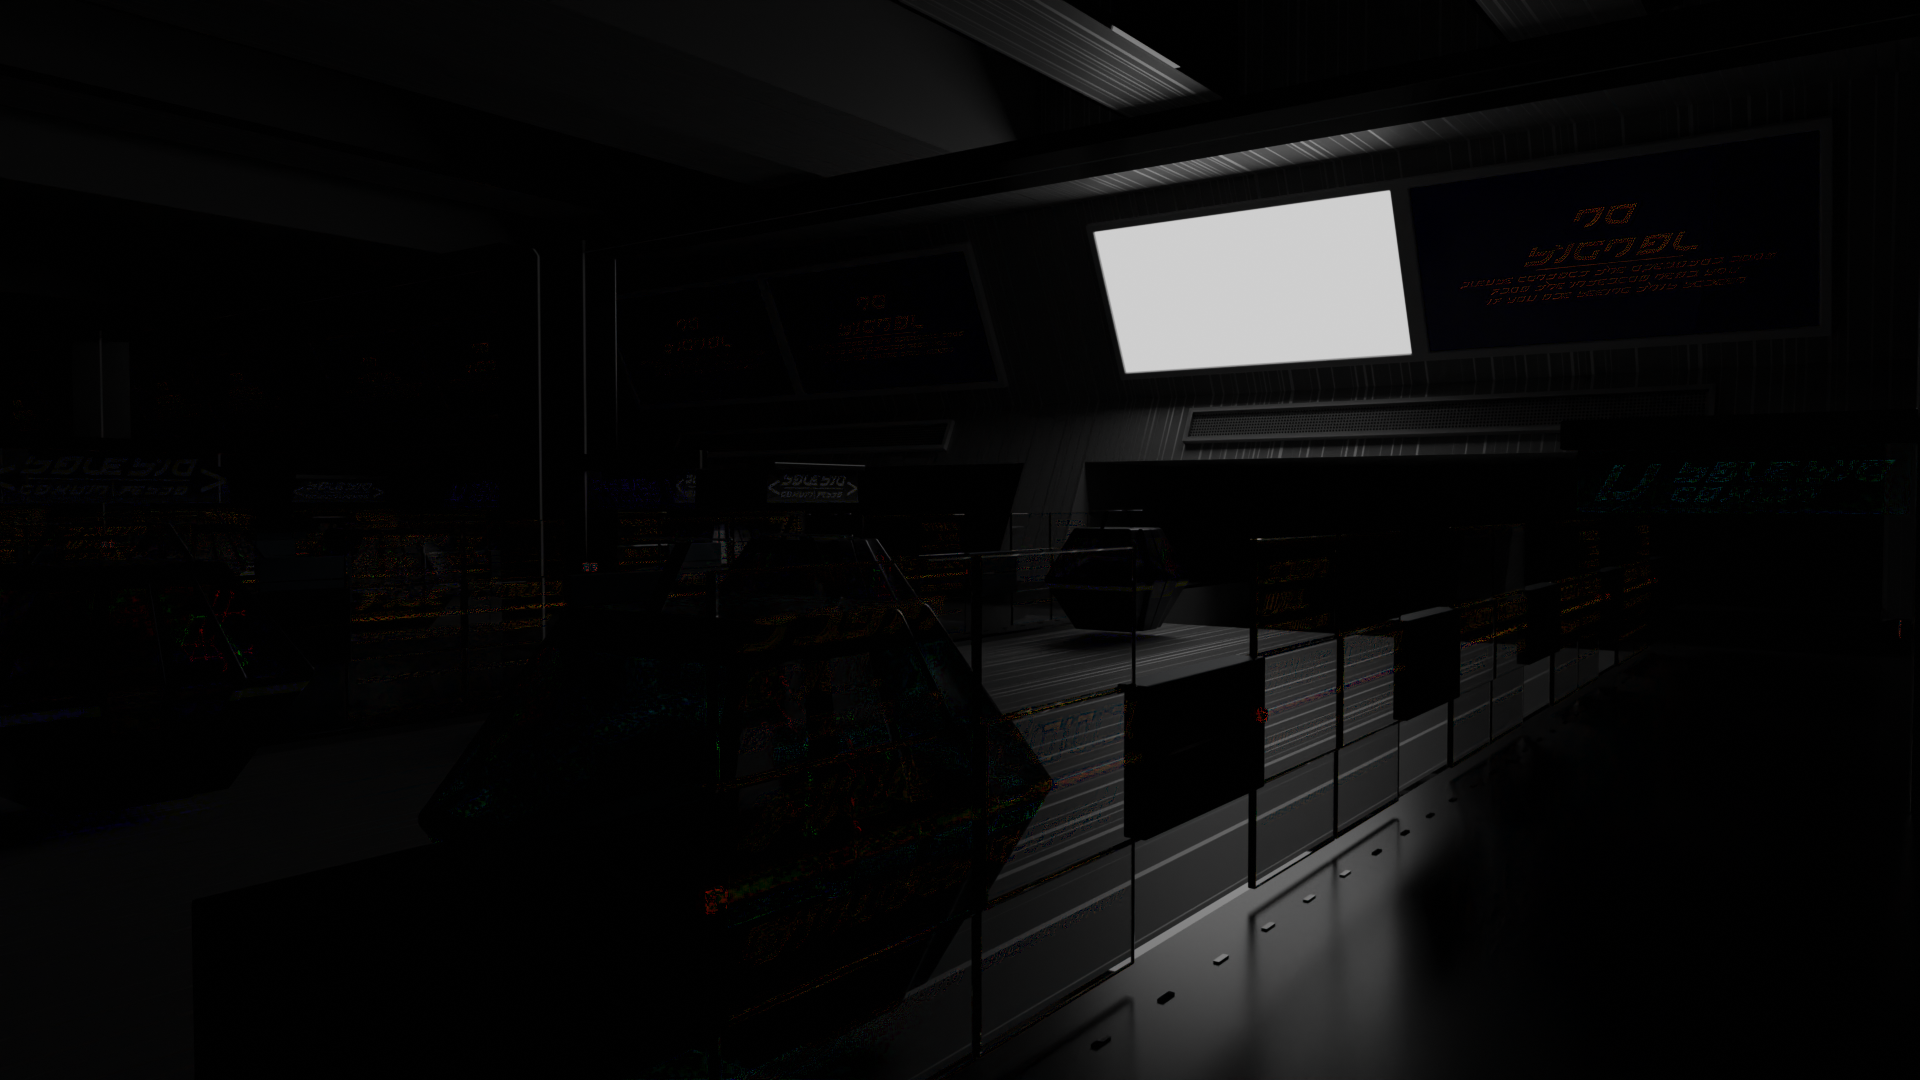
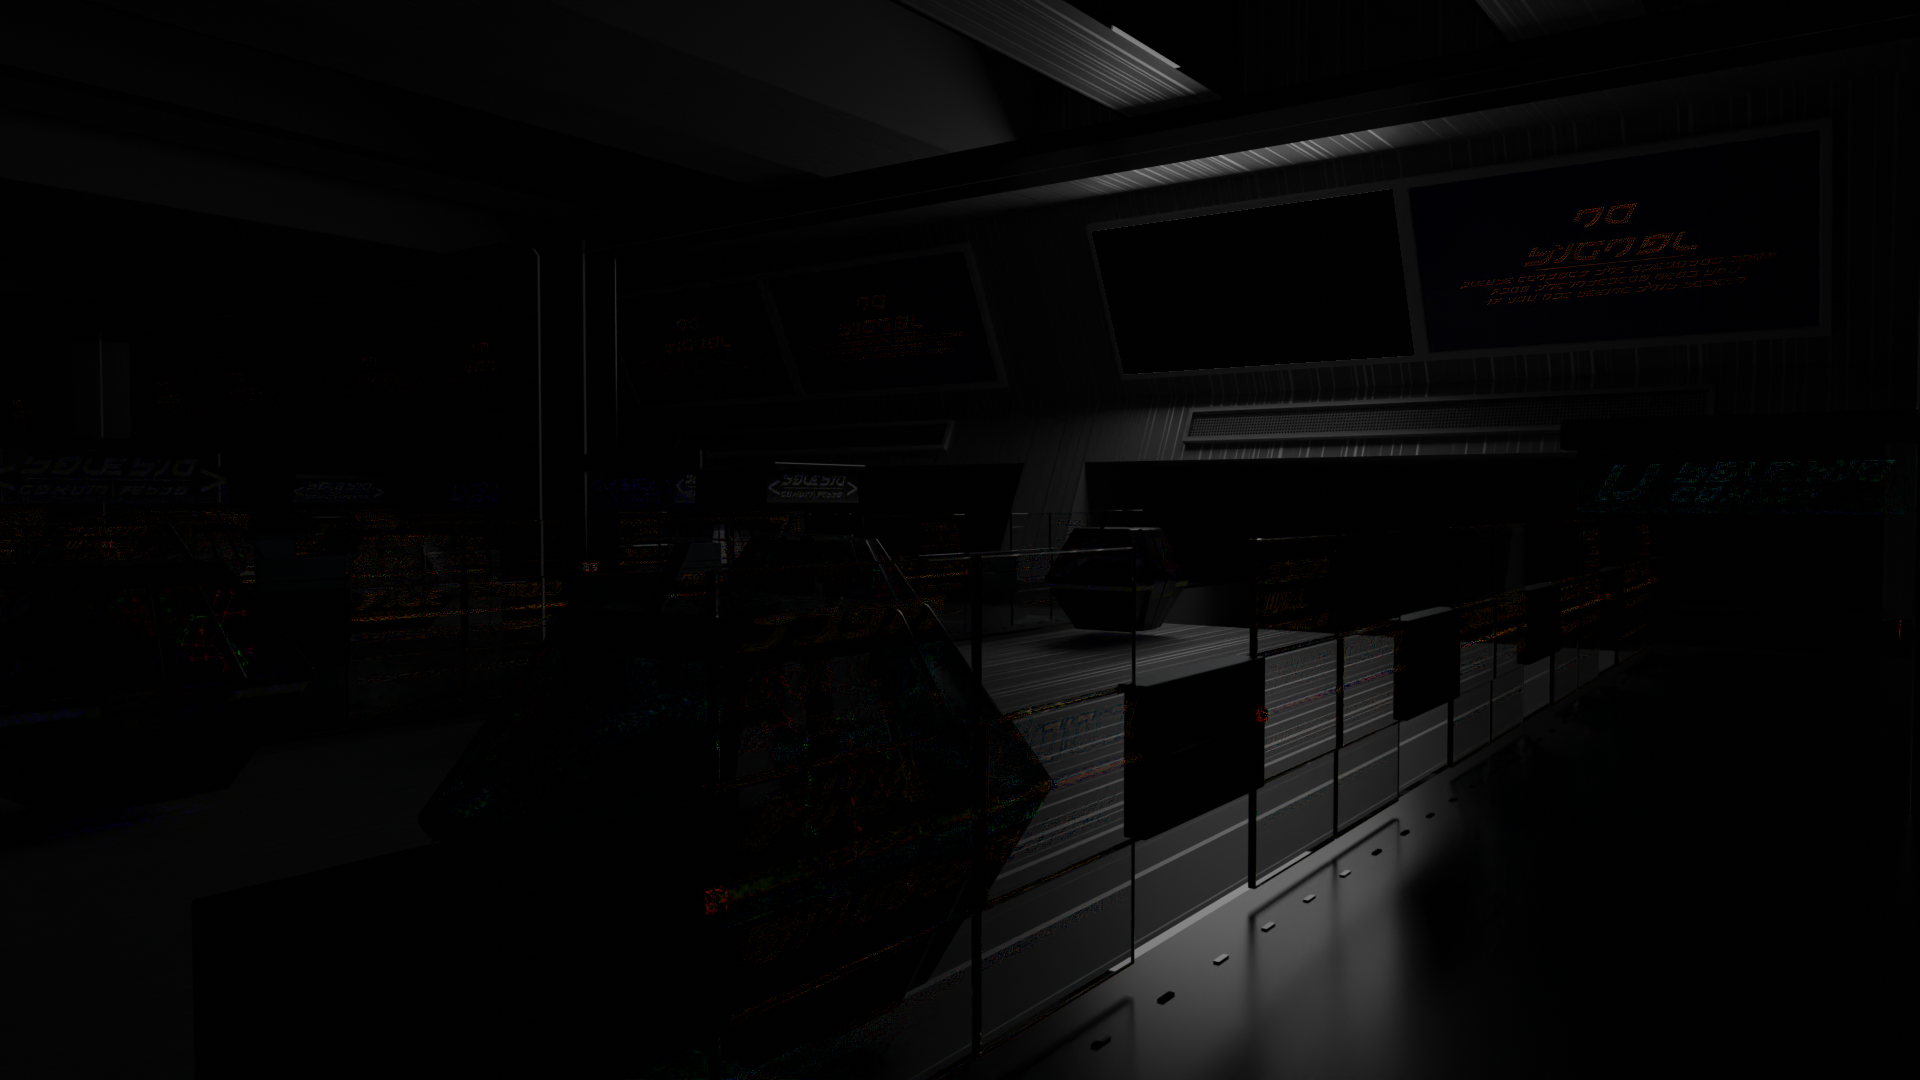
カウントダウンを追加

Changed region(s): [[0.5625, 0.1833, 0.75, 0.3667]]

diff --git a/pages/index.vue b/pages/index.vue
@@ -334,12 +334,10 @@ onMounted(async () => {
   //   magFilter: LinearFilter,
   // });
 
-  // シーンの初期化
-  const scene = new Scene();
-
-  // 板ポリ
-  const geometory = new PlaneBufferGeometry(3.5555555, 2);
-  const material = new ShaderMaterial({
+  // 画面の中描画
+  const dispScene = new Scene();
+  const dispGeometory = new PlaneBufferGeometry(2, 2);
+  const dispMaterial = new ShaderMaterial({
     vertexShader: `
   varying vec2 v_UV;
   void main() {
@@ -348,11 +346,79 @@ onMounted(async () => {
   }`,
     fragmentShader: `
   varying vec2 v_UV;
+  uniform float u_Time;
+  uniform lowp float[10] texts;
+  uniform sampler2D numberTexture;
+  vec3 toRGB(float h,float s,float v){
+    return ((clamp(abs(fract(h+vec3(0,2,1)/3.)*6.-3.)-1.,0.,1.)-1.)*s+1.)*v;
+  }
+  void main() {
+    const float textLength = 10.;
+    const float textTypeCount = 11.;
+    float uf = fract(v_UV.x*textLength);
+    int ui = int(v_UV.x*textLength);
+    float currentText = texts[ui];
+    vec3 color = texture2D(numberTexture,(vec2(1./textTypeCount*uf+currentText/textTypeCount,v_UV.y*2.-.5))).rgb;
+    gl_FragColor = vec4(color*toRGB(currentText/textTypeCount+u_Time/30.,1.,1.),1.);
+  }
+  `,
+    uniforms: {
+      // 0-9,10:":",11:" "
+      texts: { value: [0, 0, 0, 0, 10, 0, 0, 10, 0, 0] },
+      numberTexture: { value: null },
+      u_Time: { value: 0 },
+    },
+  });
+  const numberTexture = await new TextureLoader().loadAsync("numbers.png");
+  dispMaterial.uniforms.numberTexture.value = numberTexture;
+
+  const dispMesh = new Mesh(dispGeometory, dispMaterial);
+  dispScene.add(dispMesh);
+  const dispCamera = new OrthographicCamera();
+  dispCamera.position.z = 1;
+  dispCamera.lookAt(0, 0, 0);
+  dispCamera.top = 1;
+  dispCamera.bottom = -1;
+  dispCamera.left = -1;
+  dispCamera.right = 1;
+  dispCamera.near = 0.1;
+  dispCamera.far = 2;
+  dispCamera.updateProjectionMatrix();
+  const dispRenderTarget = new WebGLRenderTarget(512, 512);
+
+  // シーンの初期化
+  const scene = new Scene();
+
+  // 板ポリ
+  const geometory = new PlaneBufferGeometry(3.5555555, 2);
+  const material = new ShaderMaterial({
+    vertexShader: `
+  varying vec2 v_UV;
+  varying vec4 v_DispColor;
+  uniform sampler2D u_DispTexture;
+  void main() {
+    v_UV = uv;
+    v_DispColor =
+    (texture2D(u_DispTexture,vec2(.25,.25))+
+    texture2D(u_DispTexture,vec2(.25,.50))+
+    texture2D(u_DispTexture,vec2(.25,.75))+
+    texture2D(u_DispTexture,vec2(.50,.25))+
+    texture2D(u_DispTexture,vec2(.50,.50))+
+    texture2D(u_DispTexture,vec2(.50,.75))+
+    texture2D(u_DispTexture,vec2(.75,.25))+
+    texture2D(u_DispTexture,vec2(.75,.50))+
+    texture2D(u_DispTexture,vec2(.75,.75))) / 9.;
+	  gl_Position = projectionMatrix * modelViewMatrix * vec4( position, 1.0 );
+  }`,
+    fragmentShader: `
+  varying vec2 v_UV;
+  varying vec4 v_DispColor;
   uniform sampler2D u_Scroller;
   uniform sampler2D u_AllOff;
   uniform sampler2D u_OnOff;
   uniform sampler2D u_DispOff;
   uniform sampler2D u_DispCoord;
+  uniform sampler2D u_DispTexture;
   uniform vec2 u_Mouse;
   uniform float u_Time;
   float rand(vec2 co){
@@ -372,7 +438,8 @@ onMounted(async () => {
     move = clamp(move,-fac,fac);
     vec2 uv = ((v_UV-.5)*(1.-fac)+.5)+move;
     vec4 dispCoord = texture2D(u_DispCoord,uv);
-    vec4 color = mix(texture2D(u_AllOff,uv)+texture2D(u_OnOff,uv)*texture2D(u_Scroller,uv)+vec4(1.,1.,0.,1.)*texture2D(u_DispOff,uv),vec4(dispCoord.xy,.0,1.),dispCoord.z);
+    vec4 disp = texture2D(u_DispTexture,dispCoord.xy);
+    vec4 color = mix(texture2D(u_AllOff,uv)+texture2D(u_OnOff,uv)*texture2D(u_Scroller,uv)+v_DispColor*texture2D(u_DispOff,uv),disp,dispCoord.z);
     float h = dot(color.xyz,vec3(0.299, 0.587, 0.114));
 	  gl_FragColor = color+((noise(uv)-.5)*max(0.,.1-h));
   }`,
@@ -383,6 +450,7 @@ onMounted(async () => {
       u_DispOff: { value: null },
       u_Particle: { value: null },
       u_DispCoord: { value: null },
+      u_DispTexture: { value: null },
       u_Mouse: { value: new Vector2(0.5, 0.5) },
       u_Time: { value: 0 },
     },
@@ -396,6 +464,7 @@ onMounted(async () => {
   material.uniforms.u_DispOff.value = dispOffTexture;
   const dispCoordTexture = await new TextureLoader().loadAsync("dispcoord.png");
   material.uniforms.u_DispCoord.value = dispCoordTexture;
+  material.uniforms.u_DispTexture.value = dispRenderTarget.texture;
   //material.uniforms.u_Particle.value = particleRenderTarget.texture;
   const planeMesh = new Mesh(geometory, material);
   scene.add(planeMesh);
@@ -497,6 +566,10 @@ onMounted(async () => {
     // renderer.setRenderTarget(particleRenderTarget);
     // renderer.render(particleScene, particleCamera);
 
+    // ディスプのレンダリング
+    renderer.setRenderTarget(dispRenderTarget);
+    renderer.render(dispScene, dispCamera);
+
     // シーンのレンダリング
     renderer.setRenderTarget(null);
     composer.render();
@@ -515,6 +588,35 @@ onMounted(async () => {
       material.uniforms.u_Time.value = time;
     }
     material.uniforms.u_Time.value = time;
+    dispMaterial.uniforms.u_Time.value = time;
+    const toFes = Math.floor((1663804800000 - Date.now()) / 1000);
+    const mill = (1663804800000 - Date.now()) % 1000; //
+    const sec = toFes % 60;
+    const min = Math.floor((toFes % 3600) / 60);
+    const hour = Math.floor(toFes / 3600);
+    if (toFes > 3600) {
+      dispMaterial.uniforms.texts.value[9] = sec % 10;
+      dispMaterial.uniforms.texts.value[8] = Math.floor(sec / 10);
+      dispMaterial.uniforms.texts.value[7] = 10;
+      dispMaterial.uniforms.texts.value[6] = min % 10;
+      dispMaterial.uniforms.texts.value[5] = Math.floor(min / 10);
+      dispMaterial.uniforms.texts.value[4] = 10;
+      dispMaterial.uniforms.texts.value[3] = hour % 10;
+      dispMaterial.uniforms.texts.value[2] = Math.floor((hour / 10) % 10);
+      dispMaterial.uniforms.texts.value[1] = Math.floor((hour / 100) % 10);
+      dispMaterial.uniforms.texts.value[0] = Math.floor((hour / 1000) % 10);
+    } else {
+      dispMaterial.uniforms.texts.value[9] = Math.floor(mill % 10);
+      dispMaterial.uniforms.texts.value[8] = Math.floor((mill / 10) % 10);
+      dispMaterial.uniforms.texts.value[7] = Math.floor((mill / 100) % 10);
+      dispMaterial.uniforms.texts.value[6] = 10;
+      dispMaterial.uniforms.texts.value[5] = sec % 10;
+      dispMaterial.uniforms.texts.value[4] = Math.floor(sec / 10);
+      dispMaterial.uniforms.texts.value[3] = 10;
+      dispMaterial.uniforms.texts.value[2] = min % 10;
+      dispMaterial.uniforms.texts.value[1] = Math.floor(min / 10);
+      dispMaterial.uniforms.texts.value[0] = 11;
+    }
     // gpgpuMaterial.uniforms.u_Time.value = time;
     // material.uniforms.u_DispColor.value = new Color(
     //   Math.floor(Math.random() * 256) * 0x010000 +

diff --git a/app.vue b/app.vue
@@ -19,7 +19,7 @@ router.beforeEach((to, from, next) => {
 });
 useHead({
   titleTemplate: (titleChunk) => {
-    return titleChunk ? `${titleChunk} | SF Edit` : "Salesio Festa Editor";
+    return titleChunk ? `${titleChunk} | SaleFes` : "Salesio Festa";
   },
 });
 router.onError((error) => {
@@ -41,68 +41,6 @@ window.addEventListener("hashchange", (e) => {
 </script>
 
 <style lang="scss">
-@import "highlight.js/scss/github-dark.scss";
-
-@import "bootstrap/scss/functions";
-// Default variable overrides
-$light: #dddddd;
-$dark: #181b2c;
-
-$body-bg: #181b2c;
-$body-color: #fff;
-
-$component-active-color: $body-color;
-$component-active-bg: $body-bg;
-
-$popover-bg: $body-bg;
-$popover-border-color: $body-color;
-
-$modal-content-bg: $body-bg;
-$modal-content-color: $body-color;
-
-$toast-header-color: $body-color;
-$toast-background-color: rgba(black, 0.5);
-$toast-header-background-color: rgba(black, 0.1);
-
-$dropdown-link-color: $body-bg;
-
-$btn-close-color: $body-color;
-
-$card-height: 100%;
-
-:root {
-  --vs-controls-color: #ffffff;
-  --vs-border-color: #ffffff;
-
-  --vs-dropdown-bg: #181b2c;
-  --vs-dropdown-color: #ffffff;
-  --vs-dropdown-option-color: #ffffff;
-
-  --vs-selected-bg: #181b2c;
-  --vs-selected-color: #ffffff;
-
-  --vs-search-input-color: #ffffff;
-
-  --vs-dropdown-option--active-bg: #2d3353;
-  --vs-dropdown-option--active-color: #ffffff;
-}
-@import "bootstrap/scss/bootstrap";
-
-@import "vue-select/dist/vue-select.css";
-
-@import "bootstrap-icons/font/bootstrap-icons";
-
-$custom-colors: (
-  "sfsite": #181b2c,
-);
-
-$theme-colors: map-merge($theme-colors, $custom-colors);
-
-a,
-a:hover {
-  color: $body-color;
-}
-
 a:not(:hover) {
   text-decoration: none;
 }

diff --git a/layouts/default.vue b/layouts/default.vue
@@ -37,9 +37,69 @@ router.afterEach(() => {
 </script>
 
 <style lang="scss">
+@import "highlight.js/scss/github-dark.scss";
+
+@import "bootstrap/scss/functions";
+// Default variable overrides
+$light: #dddddd;
+$dark: #181b2c;
+
+$body-bg: #181b2c;
+$body-color: #fff;
+
+$component-active-color: $body-color;
+$component-active-bg: $body-bg;
+
+$popover-bg: $body-bg;
+$popover-border-color: $body-color;
+
+$modal-content-bg: $body-bg;
+$modal-content-color: $body-color;
+
+$toast-header-color: $body-color;
+$toast-background-color: rgba(black, 0.5);
+$toast-header-background-color: rgba(black, 0.1);
+
+$dropdown-link-color: $body-bg;
+
+$btn-close-color: $body-color;
+
+$card-height: 100%;
+
+:root {
+  --vs-controls-color: #ffffff;
+  --vs-border-color: #ffffff;
+
+  --vs-dropdown-bg: #181b2c;
+  --vs-dropdown-color: #ffffff;
+  --vs-dropdown-option-color: #ffffff;
+
+  --vs-selected-bg: #181b2c;
+  --vs-selected-color: #ffffff;
+
+  --vs-search-input-color: #ffffff;
+
+  --vs-dropdown-option--active-bg: #2d3353;
+  --vs-dropdown-option--active-color: #ffffff;
+}
+@import "bootstrap/scss/bootstrap";
+
+@import "vue-select/dist/vue-select.css";
+
+@import "bootstrap-icons/font/bootstrap-icons";
+
+$custom-colors: (
+  "sfsite": #181b2c,
+);
+
+$theme-colors: map-merge($theme-colors, $custom-colors);
 .page-enter-active,
 .page-leave-active {
   transition: all 1s ease;
+}
+a,
+a:hover {
+  color: $body-color;
 }
 .page-enter-from,
 .page-leave-to,

diff --git a/layouts/fullScreen.vue b/layouts/fullScreen.vue
@@ -8,5 +8,6 @@
 html,
 body {
   background-color: #ffffff;
+  margin: 0;
 }
 </style>
